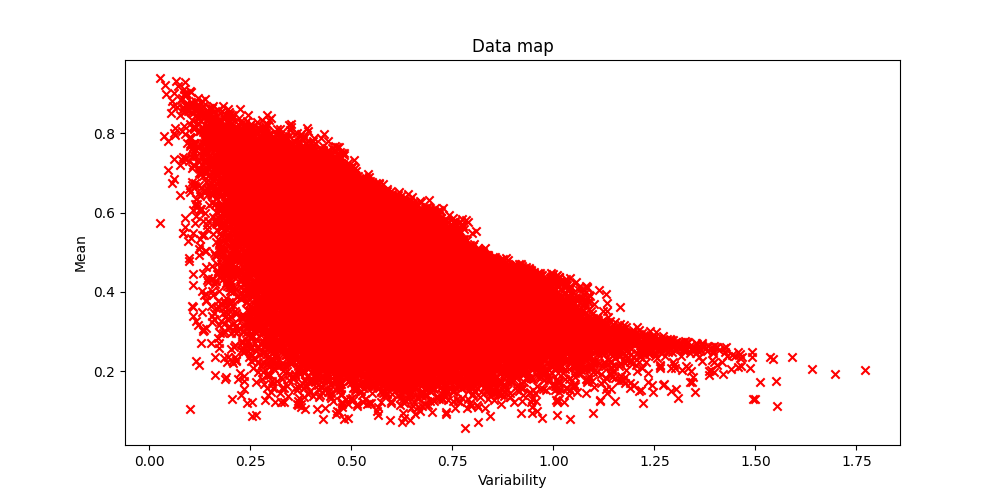
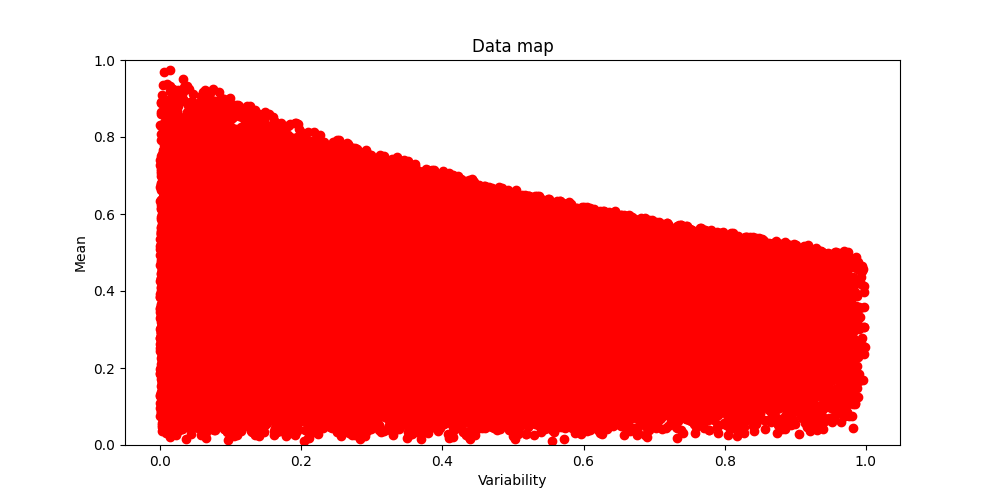
feat: Add correctness tracking during training

diff --git a/src/main.py b/src/main.py
@@ -35,6 +35,7 @@ optimizer = tiopt.Lookahead(optim.AdamW(net.parameters(), lr=0.0001))
 
 # 訓練模型
 confidence = {}
+correctness = {}
 print("Start training")
 epochs = 10
 for epoch in range(epochs):
@@ -57,17 +58,29 @@ for epoch in range(epochs):
     # EVALUATE
     net.eval()
     confidence_list = []
+    correctness_list = []
 
     with torch.no_grad():
+        temp_outputs = np.array([])
+        temp_groundtruth = np.array([])
         for inputs, labels in trainloader:
             inputs, labels = inputs.to(device), labels.to(device)
             outputs = net(inputs)
             probs = F.softmax(outputs, dim=1)
 
+            # add to temp_outputs and temp_groundtruth
+            temp_outputs = np.concatenate((temp_outputs, probs.max(1)[0].cpu().numpy()))
+            temp_groundtruth = np.concatenate((temp_groundtruth, labels.cpu().numpy()))
+
             for i in range(len(probs)):
                 confidence_list.append(probs[i][labels[i]].item())
 
+        print(f"Shape of temp_outputs: {temp_outputs.shape}")
+        print(f"Shape of temp_groundtruth: {temp_groundtruth.shape}")
+        correctness_list = (temp_outputs == temp_groundtruth).astype(int)
+
     confidence[epoch] = confidence_list
+    correctness[epoch] = correctness_list
 
 print('Finished Training')
 
@@ -85,11 +98,19 @@ with torch.no_grad():
 print(f'Accuracy of the network on the 10000 test images: {100 * correct / total}%')
 
 confidence_list = [[] for _ in range(len(confidence[0]))]
+correctness_list = [[] for _ in range(len(correctness[0]))]
 for epoch in confidence:
     for i in range(len(confidence[epoch])):
         confidence_list[i].append(confidence[epoch][i])
 
+for epoch in correctness:
+    for i in range(len(correctness[epoch])):
+        correctness_list[i].append(correctness[epoch][i])
+
 confidence_list = np.array(confidence_list)
+correctness_list = np.array(correctness_list)
+print(f"Confidence list shape: {confidence_list.shape}")
+print(f"Correctness list shape: {correctness_list.shape}")
 
 mean = np.mean(confidence_list, axis=1)
 std = np.std(confidence_list, axis=1)
@@ -99,10 +120,9 @@ variability = std / mean
 import matplotlib.pyplot as plt
 
 plt.figure(figsize=(10, 5))
-plt.scatter(variability, mean, c='r', marker='x')
+plt.scatter(variability, mean, c=correctness_list, cmap='coolwarm')
 plt.xlabel('Variability')
 plt.ylabel('Mean')
-plt.xlim(0, 1)
 plt.ylim(0, 1)
 plt.title('Data map')
 plt.savefig('data_map.png')
